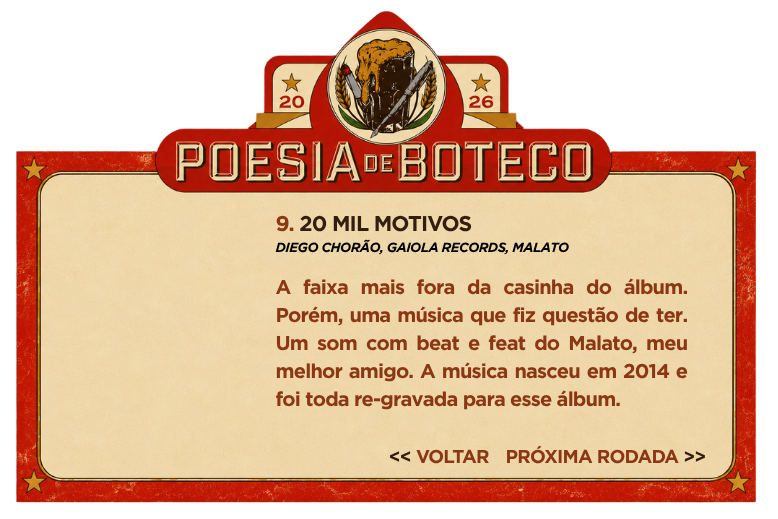
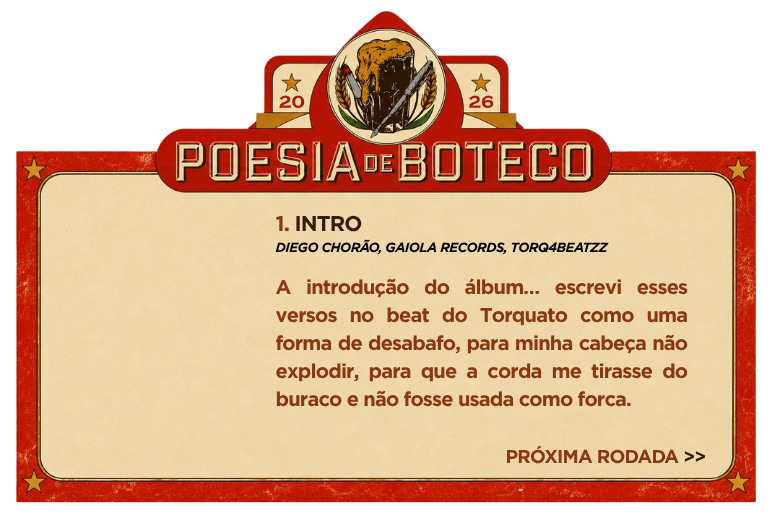
style: atualiza cache para nova imagem 01

Changed region(s): [[0.3393, 0.5241, 0.8946, 0.8015], [0.3393, 0.4008, 0.8021, 0.4933], [0.4936, 0.8632, 0.6478, 0.894]]

diff --git a/audicao-app/src/app/components/AudicaoFlow.tsx b/audicao-app/src/app/components/AudicaoFlow.tsx
@@ -110,7 +110,7 @@ export default function AudicaoFlow() {
                 <div className="relative mx-auto w-[95%] sm:w-[85%] md:w-[85%]">
                   {/* Imagem Horizontal do Cardápio - Agora fluida sem travar o aspect ratio */}
                   <img 
-                    src={`/poesiadeboteco/0${currentIndex + 1}.png?v=4`} 
+                    src={`/poesiadeboteco/0${currentIndex + 1}.png?v=5`} 
                     alt={`Faixa ${currentIndex + 1}`} 
                     className="w-full h-auto pointer-events-none drop-shadow-2xl"
                   />